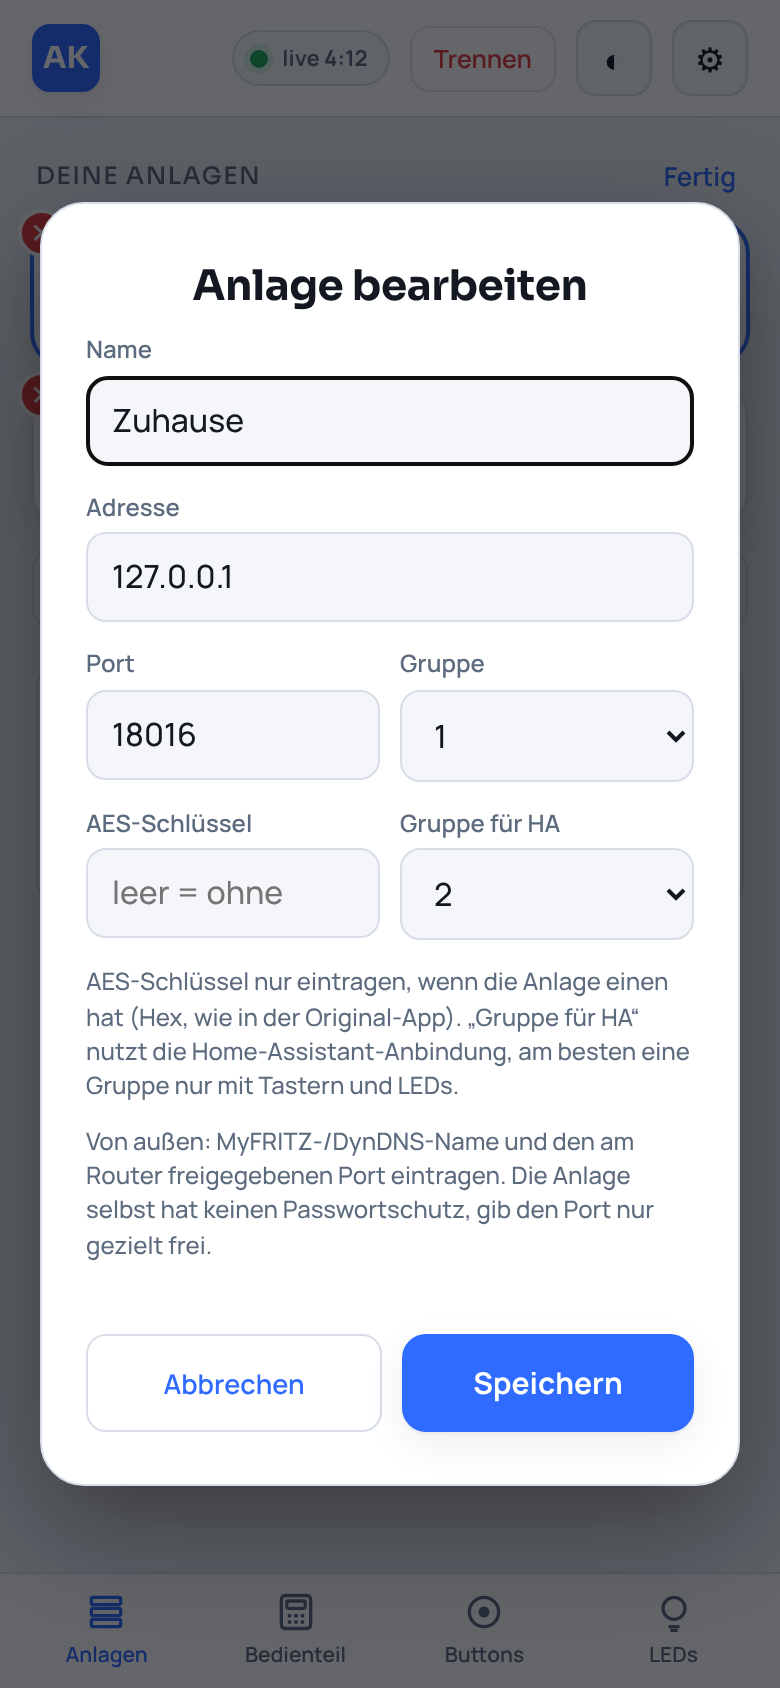
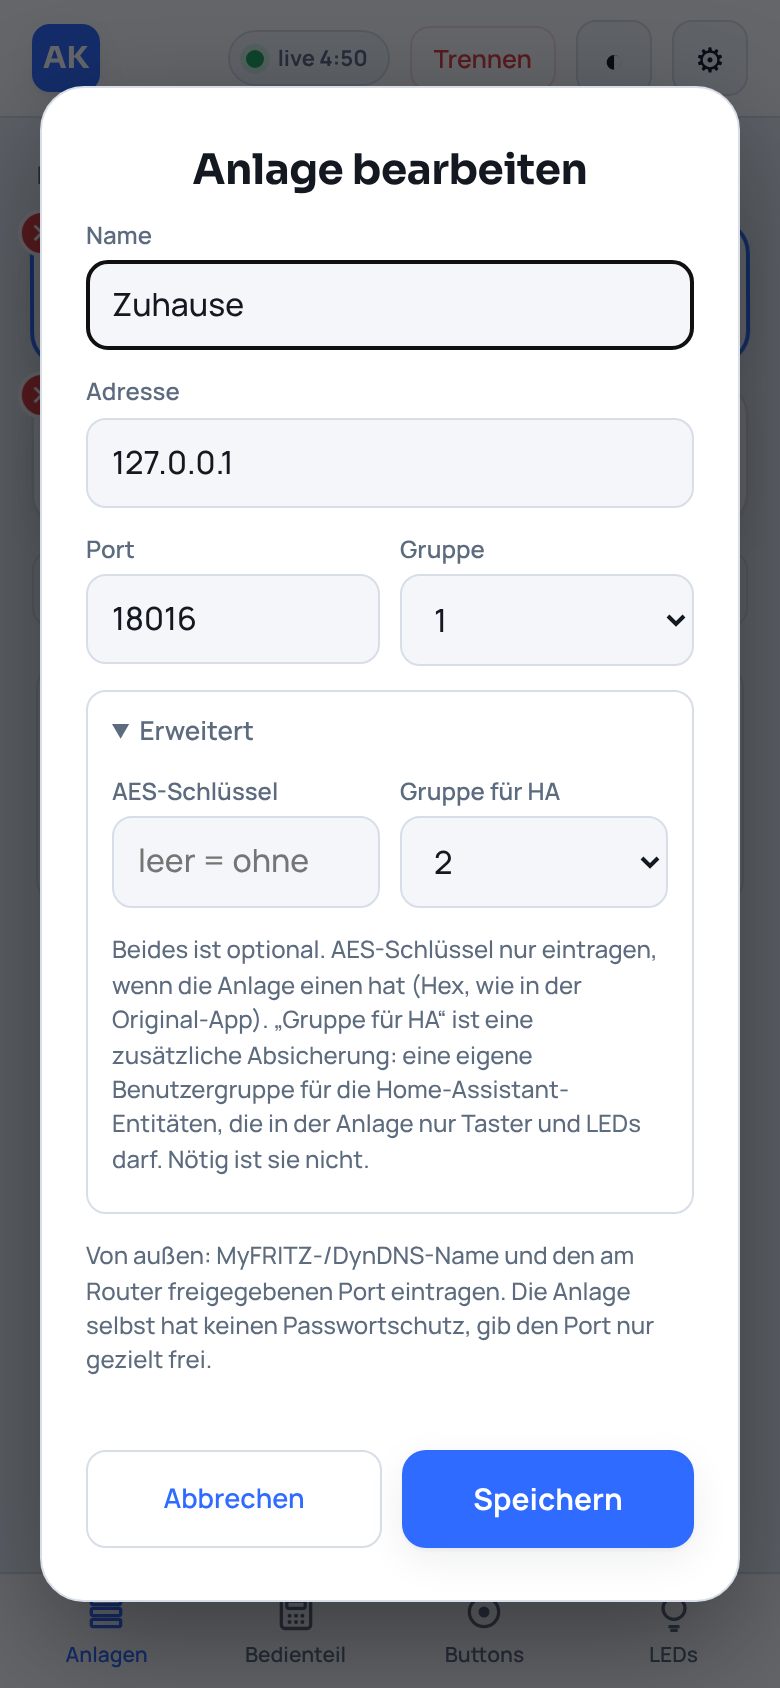
System dialog: AES key and HA group under "Advanced" (0.7.2) (#23)
* Docs: detailed setup guide, fresh phone and desktop screenshots, README for 0.6.0

Claude-Session: https://claude.ai/code/session_01RQbeZeTP4fgnKgDhfhuUL5

* English and German UI, language option, reworded add-on texts (0.7.0)

- New add-on option `language` (auto/en/de). auto follows Home Assistant:
  the user's HA profile language in the app (read from the Ingress parent),
  the HA system language for entity names (via the HA API), else English.
  Standalone follows the browser or UI_LANGUAGE. Per-device choice under ⚙.
- Whole web UI translated; names that come from the panel stay as sent.
- MQTT entity names follow the language; add-on log messages in English.
- Reworded option texts in translations/en.yaml and de.yaml, sidebar
  entry "Alarm Keypad".
- Setup guide in English (docs/SETUP.md) and German (docs/SETUP.de.md),
  README/DOCS use the English UI terms, new English screenshots.

Claude-Session: https://claude.ai/code/session_01RQbeZeTP4fgnKgDhfhuUL5

* System dialog: AES key and HA group under "Advanced" (0.7.2)

Both fields are optional; a separate HA group is only an extra safeguard,
the HA connection never takes the keypad. The section opens by itself
when a system already uses one. Guides updated accordingly.

Claude-Session: https://claude.ai/code/session_01RQbeZeTP4fgnKgDhfhuUL5

---------

diff --git a/ema-panel/web/index.html b/ema-panel/web/index.html
@@ -82,6 +82,9 @@ button{font-family:inherit;color:inherit;cursor:pointer}
 .fld.two{display:flex;gap:10px}.fld.two>div{flex:1}
 .formerr{color:var(--alarm);font-size:13px;text-align:left;min-height:18px;margin:0 0 8px}
 .modal p.hint{font-size:12px;margin:0 0 10px}
+.modal details.adv{text-align:left;margin:0 0 12px;border:1px solid var(--border);border-radius:10px;padding:8px 12px}
+.modal details.adv summary{cursor:pointer;font-size:13px;font-weight:600;color:var(--muted);padding:2px 0}
+.modal details.adv[open] summary{margin-bottom:10px}
 .addsys{width:100%;margin:2px 0 14px;padding:12px;text-align:center}
 .badge.live{color:var(--ok);background:var(--ok-soft);border-color:transparent}
 .sys-card .edit{display:none;width:34px;height:34px;border-radius:9px;border:1px solid var(--border);background:var(--surface-2);place-items:center;font-size:15px;flex:none}
@@ -436,8 +439,10 @@ button{font-family:inherit;color:inherit;cursor:pointer}
     <div class="fld"><label for="fName">Name</label><input id="fName" maxlength="40" placeholder="z. B. Ferienhaus" autocomplete="off"></div>
     <div class="fld"><label for="fHost">Adresse</label><input id="fHost" placeholder="192.168.178.99 oder name.myfritz.net" autocapitalize="off" autocomplete="off" spellcheck="false" inputmode="url"></div>
     <div class="fld two"><div><label for="fPort">Port</label><input id="fPort" inputmode="numeric" value="8016"></div><div><label for="fGroup">Gruppe</label><select id="fGroup"><option>1</option><option>2</option><option>3</option><option>4</option></select></div></div>
+    <details class="adv" id="fAdv"><summary>Erweitert</summary>
     <div class="fld two"><div><label for="fKey">AES-Schlüssel</label><input id="fKey" type="password" placeholder="leer = ohne" autocapitalize="off" autocomplete="off" spellcheck="false"></div><div><label for="fHaGroup">Gruppe für HA</label><select id="fHaGroup"><option value="">wie oben</option><option>1</option><option>2</option><option>3</option><option>4</option></select></div></div>
-    <p class="hint">AES-Schlüssel nur eintragen, wenn die Anlage einen hat (Hex, wie in der Original-App). „Gruppe für HA“ nutzt die Home-Assistant-Anbindung, am besten eine Gruppe nur mit Tastern und LEDs.</p>
+    <p class="hint">Beides ist optional. AES-Schlüssel nur eintragen, wenn die Anlage einen hat (Hex, wie in der Original-App). „Gruppe für HA“ ist eine zusätzliche Absicherung: eine eigene Benutzergruppe für die Home-Assistant-Entitäten, die in der Anlage nur Taster und LEDs darf. Nötig ist sie nicht.</p>
+    </details>
     <p class="hint">Von außen: MyFRITZ-/DynDNS-Name und den am Router freigegebenen Port eintragen. Die Anlage selbst hat keinen Passwortschutz, gib den Port nur gezielt frei.</p>
     <div class="formerr" id="fErr"></div>
     <div class="row2"><button class="btn-ghost" id="sysCancel">Abbrechen</button><button class="btn-primary" id="sysSave">Speichern</button></div>
@@ -565,9 +570,9 @@ const I18N_EN={
 'Alle anderen Geräte werden dabei abgemeldet.':'All other devices will be signed out.','Danach ist zum Öffnen eine Anmeldung nötig. Dieses Gerät bleibt angemeldet.':'After that, signing in is required to open the page. This device stays signed in.',
 'Danach kann jeder, der die Seite erreicht, die Anlage sehen.':'After that, anyone who can reach the page can see the panel.','Passwort bestätigen':'Confirm password','Zum Einschalten der Steuerung bitte das Passwort eingeben.':'Enter the password to switch on control.','Einschalten':'Switch on',
 // system editor
-'Name':'Name','z. B. Ferienhaus':'e.g. Holiday home','Adresse':'Address','192.168.178.99 oder name.myfritz.net':'192.168.178.99 or name.myfritz.net','AES-Schlüssel':'AES key','leer = ohne':'empty = none','Gruppe für HA':'Group for HA','wie oben':'same as above',
+'Name':'Name','z. B. Ferienhaus':'e.g. Holiday home','Adresse':'Address','192.168.178.99 oder name.myfritz.net':'192.168.178.99 or name.myfritz.net','AES-Schlüssel':'AES key','leer = ohne':'empty = none','Gruppe für HA':'Group for HA','Erweitert':'Advanced','wie oben':'as above',
 'gespeichert (leer = behalten, - = löschen)':'saved (empty = keep, - = remove)',
-'AES-Schlüssel nur eintragen, wenn die Anlage einen hat (Hex, wie in der Original-App). „Gruppe für HA“ nutzt die Home-Assistant-Anbindung, am besten eine Gruppe nur mit Tastern und LEDs.':'Only enter an AES key if the panel uses one (hex, as in the original app). “Group for HA” is used for the Home Assistant entities, ideally a group with only buttons and LEDs.',
+'Beides ist optional. AES-Schlüssel nur eintragen, wenn die Anlage einen hat (Hex, wie in der Original-App). „Gruppe für HA“ ist eine zusätzliche Absicherung: eine eigene Benutzergruppe für die Home-Assistant-Entitäten, die in der Anlage nur Taster und LEDs darf. Nötig ist sie nicht.':'Both are optional. Only enter an AES key if the panel uses one (hex, as in the original app). “Group for HA” is an extra safeguard: a user group of its own for the Home Assistant entities that the panel only allows buttons and LEDs. It is not required.',
 'Von außen: MyFRITZ-/DynDNS-Name und den am Router freigegebenen Port eintragen. Die Anlage selbst hat keinen Passwortschutz, gib den Port nur gezielt frei.':'Remote access: enter the MyFRITZ/DynDNS name and the port forwarded on your router. The panel itself has no password protection, so forward the port with care.',
 // connect, confirm
 'Mit der Anlage verbinden?':'Connect to the panel?','Später':'Later','Verbinden':'Connect','Bestätigen':'Confirm','Verbindung getrennt':'Disconnected','Getrennt':'Disconnected','Verbindung verlängert (5 min)':'Connection extended (5 min)',
@@ -592,7 +597,7 @@ const I18N_EN={
 "Genau ein Feld 'key' oder 'taster' angeben.":"Send exactly one field, 'key' or 'taster'.",'Befehlswarteschlange nicht verfügbar.':'Command queue not available.','Passwort falsch.':'Wrong password.','Aktuelles Passwort falsch.':'The current password is wrong.','Bitte anmelden.':'Please sign in.',
 'In Home Assistant meldet dich Home Assistant an, ein eigenes Passwort ist nicht nötig.':'Inside Home Assistant, Home Assistant handles sign-in, so no separate password is needed.',
 'Name: 1 bis 40 Zeichen.':'Name: 1 to 40 characters.','Adresse: nur Hostname oder IP, z. B. 192.168.178.99 oder name.myfritz.net.':'Address: host name or IP only, e.g. 192.168.178.99 or name.myfritz.net.','Port: 1 bis 65535.':'Port: 1 to 65535.',
-'Benutzergruppe: 1 bis 4.':'User group: 1 to 4.','Gruppe für Home Assistant: 1 bis 4 oder wie oben.':'Group for Home Assistant: 1 to 4 or same as above.','Maximal 20 Anlagen.':'At most 20 systems.',
+'Benutzergruppe: 1 bis 4.':'User group: 1 to 4.','Gruppe für Home Assistant: 1 bis 4 oder wie oben.':'Group for Home Assistant: 1 to 4 or as above.','Maximal 20 Anlagen.':'At most 20 systems.',
 'AES-Schlüssel: 32, 48 oder 64 Hex-Zeichen (0-9, A-F), oder leer lassen.':'AES key: 32, 48 or 64 hex characters (0-9, A-F), or leave it empty.',
 'Zeitüberschreitung':'timed out','Verbindung abgelehnt/keine Route':'connection refused or no route','AES-Schlüssel hat die falsche Länge':'the AES key has the wrong length',
 'Die Anlage antwortet verschlüsselt: bitte den AES-Schlüssel bei der Anlage eintragen.':'The panel answers encrypted: please enter the AES key for this system.','Entschlüsseln fehlgeschlagen: AES-Schlüssel falsch?':'Decryption failed: wrong AES key?'
@@ -714,6 +719,7 @@ function openSysEditor(sy){
   document.getElementById('fPort').value=sy?sy.port:8016;
   document.getElementById('fGroup').value=sy?sy.group:'1';
   document.getElementById('fHaGroup').value=sy&&sy.haGroup?sy.haGroup:'';
+  document.getElementById('fAdv').open=!!(sy&&(sy.hasKey||sy.haGroup));
   const fk=document.getElementById('fKey');fk.value='';
   fk.placeholder=sy&&sy.hasKey?'gespeichert (leer = behalten, - = löschen)':'leer = ohne';
   document.getElementById('fErr').textContent='';

diff --git a/docs/SETUP.de.md b/docs/SETUP.de.md
@@ -137,8 +137,8 @@ Reiter **Anlagen** (links unten am Handy, links in der Leiste am PC) → **＋ A
 | Adresse | IP oder Hostname, von außen z. B. `name.myfritz.net` |
 | Port | meist `8016` |
 | Gruppe | Benutzergruppe für das Bedienteil, wie in der Original-App |
-| AES-Schlüssel | nur wenn die Anlage einen hat, sonst leer. Beim Bearbeiten: leer = gespeicherten behalten, `-` = Schlüssel löschen. Der Schlüssel wird nie an den Browser zurückgeschickt. |
-| Gruppe für HA | Benutzergruppe der Home-Assistant-Anbindung (Abschnitt 7). „wie oben“ = dieselbe Gruppe. |
+| AES-Schlüssel *(unter Erweitert)* | nur wenn die Anlage einen hat, sonst leer. Beim Bearbeiten: leer = gespeicherten behalten, `-` = Schlüssel löschen. Der Schlüssel wird nie an den Browser zurückgeschickt. |
+| Gruppe für HA *(unter Erweitert)* | optionale Zusatzsicherung: Benutzergruppe der Home-Assistant-Anbindung (Abschnitt 7). „wie oben“ = dieselbe Gruppe. |
 
 Dann die Anlage antippen und **Verbinden**. Oben steht **live** mit einem Countdown.
 
@@ -172,16 +172,17 @@ Das Add-on hält dafür eine **eigene, dauerhafte Verbindung**, die **nur die Ta
 LED-Seite** liest. Das ist an einer echten Anlage geprüft: Diese Verbindung belegt das
 Bedienteil **nicht**, es bleibt für dich, die Original-App und das echte Bedienteil frei.
 
-### 7.2 Eigene Benutzergruppe (empfohlen)
+### 7.2 Eigene Benutzergruppe (optional)
 
-Am saubersten bekommt die HA-Verbindung eine **eigene Benutzergruppe** in der Anlage, der nur
+**Nötig ist das nicht:** Die HA-Verbindung belegt das Bedienteil nie, alles funktioniert auch mit
+der normalen Gruppe. Als zusätzliche Absicherung bekommt die HA-Verbindung eine **eigene Benutzergruppe** in der Anlage, der nur
 **Taster und LEDs** freigegeben sind, ohne Bedienteil. Dann kann Home Assistant das Bedienteil
 schon von der Anlage aus nicht bedienen, und du legst dort auch fest, welche Taster HA schalten
 darf. Wie man Gruppen einrichtet, hängt von deiner Anlage ab (Errichter-Programmierung der
 Übertragungseinheit).
 
 Beispiel: Hauptgruppe `3` für das Bedienteil, Gruppe `2` nur mit Tastern für HA. Dann bei der
-Anlage **Gruppe = 3** und **Gruppe für HA = 2** eintragen. Ohne eigene Gruppe funktioniert es mit
+Anlage **Gruppe = 3** und unter **Erweitert** **Gruppe für HA = 2** eintragen. Ohne eigene Gruppe funktioniert es mit
 „wie oben“ genauso, nur ohne diese zweite Sicherung.
 
 ### 7.3 Einschalten

diff --git a/docs/SETUP.md b/docs/SETUP.md
@@ -131,8 +131,8 @@ the app is then a second layer. A VPN (WireGuard, Tailscale, router VPN) works t
 | Address | IP or host name, from outside e.g. `name.myfritz.net` |
 | Port | usually `8016` |
 | Group | user group for the keypad, as in the original app |
-| AES key | only if the panel has one, otherwise leave empty. When editing: empty = keep the saved key, `-` = remove it. The key is never sent back to the browser. |
-| Group for HA | user group for the Home Assistant entities (section 7). "same as above" = the same group. |
+| AES key *(under Advanced)* | only if the panel has one, otherwise leave empty. When editing: empty = keep the saved key, `-` = remove it. The key is never sent back to the browser. |
+| Group for HA *(under Advanced)* | optional extra safeguard: user group for the Home Assistant entities (section 7). "as above" = the same group. |
 
 Then tap the system and **Connect**. The header shows **live** with a countdown.
 
@@ -166,16 +166,17 @@ The add-on keeps a **separate, permanent connection** for this that **only reads
 LED page**. This was checked on a real panel: the connection does **not** take the keypad, so it
 stays free for you, the original app and the real keypad.
 
-### 7.2 A user group of its own (recommended)
+### 7.2 A user group of its own (optional)
 
-Ideally the HA connection gets **its own user group** in the panel that is only allowed
+You do **not** need this: the HA connection never takes the keypad, so everything works with
+the normal group. If you want an extra safeguard, the HA connection can get **its own user group** in the panel that is only allowed
 **buttons and LEDs**, without the keypad. Then Home Assistant cannot operate the keypad, enforced
 by the panel itself, and you decide there which buttons HA may press. How to set up groups
 depends on your panel (installer programming of the transmitter).
 
 Example: main group `3` for the keypad, group `2` with only buttons for HA. Then enter
-**Group = 3** and **Group for HA = 2** for the system. Without a group of its own it works the
-same with "same as above", just without this second safeguard.
+**Group = 3** and, under **Advanced**, **Group for HA = 2** for the system. Without a group of its own it works the
+same with "as above", just without this second safeguard.
 
 ### 7.3 Switch it on
 

diff --git a/README.md b/README.md
@@ -47,7 +47,7 @@ used only to describe compatibility; this project is not affiliated with them.
 - **View-only by default.** Sending commands is an explicit setting (*Allow control*), off by default
 - Arm/disarm and function buttons always ask for confirmation first
 - **Several systems.** Add, edit, sort and delete systems in the app (name, address, port, group, optional AES key, group for Home Assistant), including remote ones via a MyFRITZ/DynDNS name. One connection at a time
-- **Home Assistant entities over MQTT** (optional): the panel's LEDs, function button states and indicators as binary sensors for dashboards and automations (e.g. intrusion alerts), function buttons as HA buttons when control is allowed. A separate background session reads only the button/LED page, so it never blocks the keypad (verified on a real panel); it can use its own user group
+- **Home Assistant entities over MQTT** (optional): the panel's LEDs, function button states and indicators as binary sensors for dashboards and automations (e.g. intrusion alerts), function buttons as HA buttons when control is allowed. A separate background session reads only the button/LED page, so it never blocks the keypad (verified on a real panel); optionally it can use a user group of its own as an extra safeguard
 - **AES key** support for panels that use one; plain text otherwise
 - **Connects on demand.** The panel allows only one keypad user at a time, so the add-on connects when you tap *Connect*, disconnects after 5 minutes without activity or when you tap *Disconnect*, leaving the panel free for other apps
 - Responsive layout: phone (bottom tabs) and tablet/desktop (side rail, wide keypad)

diff --git a/ema-panel/DOCS.md b/ema-panel/DOCS.md
@@ -40,8 +40,9 @@ system appears under *Settings → Devices & services → MQTT* with binary sens
 Blinking counts as on; the attributes carry `color` and `blink`.
 
 The add-on keeps its own background connection for this that only reads the button/LED page,
-so the keypad stays free (checked on a real panel). Best give it a user group of its own that
-the panel only allows buttons and LEDs: set **Group for HA** when you add or edit a system.
+so the keypad stays free (checked on a real panel). A user group of its own is not needed. As an
+optional extra safeguard you can give it a group that the panel only allows buttons and LEDs:
+**Group for HA** under **Advanced** when you add or edit a system.
 The HA entities belong to the first system in the list. The status lamps of the keypad page
 (operation, intrusion, tamper, ...) are only known while the keypad is open in the app; the
 rest of the time they show as unavailable.

diff --git a/ema-panel/CHANGELOG.md b/ema-panel/CHANGELOG.md
@@ -1,5 +1,8 @@
 # Changelog
 
+## 0.7.2
+- System dialog: the AES key and "Group for HA" moved into a collapsible "Advanced" section (opens by itself when a system already uses one). Both are optional; the guides now say that a separate HA group is not needed, only an extra safeguard.
+
 ## 0.7.1
 - Desktop and tablet: the app now uses the full width, the navigation sits at the left edge instead of floating in the middle. Systems are laid out in as many columns as fit.
 - iPhone (Home Assistant companion app): fixed the broken top. Inside the Home Assistant frame the notch inset is now ignored (HA already handles it), so there is no empty block and the header no longer covers the display. The header is no longer sticky with an offset.
